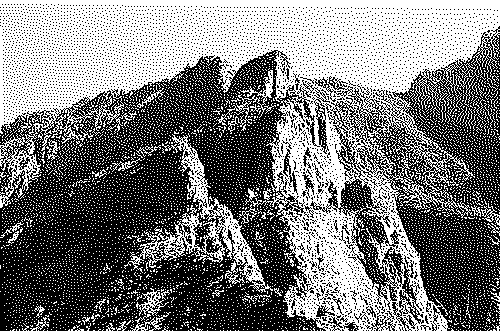
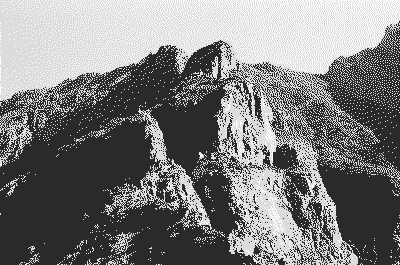
crispy low res imgs

diff --git a/site/index.html b/site/index.html
@@ -1,2 +1,2 @@
-<!doctype html><html lang='en' id='imghigh'><head><meta charset='utf-8'><meta name='description' content='An ongoing collection of notes for my projects and interests'/><meta name='viewport' content='width=device-width,initial-scale=1'><link rel='alternate' type='application/rss+xml' title='RSS Feed' href='../feed.xml' /><link rel='stylesheet' type='text/css' href='../links/main.css?c=20210521'><title>Ten Digits &mdash; index</title><link rel='shortcut icon' type='image/png' href='/favicon.ico'></head><body id='imglow'><nav><a href='home.html' title='Home'><svg xmlns='http://www.w3.org/2000/svg' viewBox='0 0 575 575'><path d='M68 183c0 49.7 40.3 90 90 90m-90-90c49.7 0 90 40.3 90 90m0-135c0 74.6 33.6 135 75 135m-75-135c41.4 0 75 60.4 75 135m30-165c-20 60-10 110 30 150m-30-150c30 30 40 80 30 150m105-135c-40 30-60 75-60 135m60-135c10 60-10 105-60 135m165-120c-50 20-85 65-105 135m105-135c-10 60-45 105-105 135m90 45c-60 20-100 50-120 90m120-90c-10 50-50 80-120 90m-15-90c-20 30-35 70-45 120m45-120c10 50-5 90-45 120m-30-150c-30 50-35 105-15 165m15-165c10 60 5 115-15 165m-75-150c30 50 40 95 30 135m-30-135c-20 50-10 95 30 135M98 318c0 60 20 100 60 120M98 318c40 20 60 60 60 120' fill='#333' stroke='#333' stroke-width='18' stroke-linecap='round' stroke-linejoin='round'/></svg></a><a href='notes.html' title='Note Index'>Notes</a><a href='projects.html' title='Project Index'>Projects</a><a href='about.html' title='About this webiste'>About</a><a href='../feed.xml' title='Syndication feed'>RSS</a></nav><div class='wrap'><header><p class='pretitle'>All files</p><h1>Index</h1><p class='posttitle'></p></header><main><ul><li><a href='house.html'>house</a></li><li><a href='birdhouse_cam.html'>birdhouse cam</a></li><li><a href='notes.html'>notes</a></li><li><a href='home.html'>home</a></li><li><a href='log_051921.html'>log 051921</a></li><li><a href='nate_steiner.html'>nate steiner</a></li><li><a href='golden_beets.html'>golden beets</a></li><li><a href='ae_modular.html'>ae modular</a></li><li><a href='git.html'>git</a></li><li><a href='website.html'>website</a></li><li><a href='projects.html'>projects</a></li><li><a href='log_031721.html'>log 031721</a></li><li><a href='now.html'>now</a></li><li><a href='bagels.html'>bagels</a></li><li><a href='bird_posters.html'>bird posters</a></li><li><a href='grain_free_granola.html'>grain free granola</a></li><li><a href='inktober.html'>inktober</a></li><li><a href='about.html'>about</a></li><li><a href='using.html'>using</a></li><li><a href='log.html'>log</a></li><li><a href='postreceivehook.html'>postreceivehook</a></li><li><a href='orca_box.html'>orca box</a></li><li><a href='ssl.html'>ssl</a></li><li><a href='inktober_2020.html'>inktober 2020</a></li><li><a href='imac_linux.html'>imac linux</a></li><li><a href='imageswap.html'>imageswap</a></li></ul></main></div><footer><p><em>Edited on Fri May 21 10:05:28 2021
+<!doctype html><html lang='en' id='imghigh'><head><meta charset='utf-8'><meta name='description' content='An ongoing collection of notes for my projects and interests'/><meta name='viewport' content='width=device-width,initial-scale=1'><link rel='alternate' type='application/rss+xml' title='RSS Feed' href='../feed.xml' /><link rel='stylesheet' type='text/css' href='../links/main.css?c=20210521'><title>Ten Digits &mdash; index</title><link rel='shortcut icon' type='image/png' href='/favicon.ico'></head><body id='imglow'><nav><a href='home.html' title='Home'><svg xmlns='http://www.w3.org/2000/svg' viewBox='0 0 575 575'><path d='M68 183c0 49.7 40.3 90 90 90m-90-90c49.7 0 90 40.3 90 90m0-135c0 74.6 33.6 135 75 135m-75-135c41.4 0 75 60.4 75 135m30-165c-20 60-10 110 30 150m-30-150c30 30 40 80 30 150m105-135c-40 30-60 75-60 135m60-135c10 60-10 105-60 135m165-120c-50 20-85 65-105 135m105-135c-10 60-45 105-105 135m90 45c-60 20-100 50-120 90m120-90c-10 50-50 80-120 90m-15-90c-20 30-35 70-45 120m45-120c10 50-5 90-45 120m-30-150c-30 50-35 105-15 165m15-165c10 60 5 115-15 165m-75-150c30 50 40 95 30 135m-30-135c-20 50-10 95 30 135M98 318c0 60 20 100 60 120M98 318c40 20 60 60 60 120' fill='#333' stroke='#333' stroke-width='18' stroke-linecap='round' stroke-linejoin='round'/></svg></a><a href='notes.html' title='Note Index'>Notes</a><a href='projects.html' title='Project Index'>Projects</a><a href='about.html' title='About this webiste'>About</a><a href='../feed.xml' title='Syndication feed'>RSS</a></nav><div class='wrap'><header><p class='pretitle'>All files</p><h1>Index</h1><p class='posttitle'></p></header><main><ul><li><a href='house.html'>house</a></li><li><a href='birdhouse_cam.html'>birdhouse cam</a></li><li><a href='notes.html'>notes</a></li><li><a href='home.html'>home</a></li><li><a href='log_051921.html'>log 051921</a></li><li><a href='nate_steiner.html'>nate steiner</a></li><li><a href='golden_beets.html'>golden beets</a></li><li><a href='ae_modular.html'>ae modular</a></li><li><a href='git.html'>git</a></li><li><a href='website.html'>website</a></li><li><a href='projects.html'>projects</a></li><li><a href='log_031721.html'>log 031721</a></li><li><a href='now.html'>now</a></li><li><a href='bagels.html'>bagels</a></li><li><a href='bird_posters.html'>bird posters</a></li><li><a href='grain_free_granola.html'>grain free granola</a></li><li><a href='inktober.html'>inktober</a></li><li><a href='about.html'>about</a></li><li><a href='using.html'>using</a></li><li><a href='log.html'>log</a></li><li><a href='postreceivehook.html'>postreceivehook</a></li><li><a href='orca_box.html'>orca box</a></li><li><a href='ssl.html'>ssl</a></li><li><a href='inktober_2020.html'>inktober 2020</a></li><li><a href='imac_linux.html'>imac linux</a></li><li><a href='imageswap.html'>imageswap</a></li></ul></main></div><footer><p><em>Edited on Fri May 21 13:25:35 2021
  <a href='https://github.com/tendigits/10d/edit/master/src/inc/index.htm'>[edit]</a><br/></em>Ten Digits © 2021 — <a href='https://creativecommons.org/licenses/by-nc/4.0/legalcode.txt'>CC BY-NC 4.0</a><br><a href='https://webring.xxiivv.com/#random'><svg fill='none' stroke-linecap='square' xmlns='http://www.w3.org/2000/svg' viewBox='0 0 300 300' stroke='#000' stroke-width='20' height='14' width='14'><path d='M201.962 210a60 60 0 10-103.924-60l-50 86.603'></path><path d='M98.038 210a60 60 0 10103.924-60l-50-86.603'></path><path d='M150 120a60 60 0 100 120h100'></path></svg> Find more handcrafted sites in the webring</a></p></footer></body></html>

diff --git a/site/home.html b/site/home.html
@@ -17,8 +17,8 @@
   <img
     class="low"
     src="../assets/img/landscape-low.png"
-    width="500"
-    height="331"
+    width="800"
+    height="530"
     alt="Landscape view"
     loading="lazy">
 <figcaption>A figurative mountain of things I'd like to do</figcaption>
@@ -32,5 +32,5 @@
 </section>
 </main>
 
-</div><footer><p><em>Edited on Fri May 21 09:47:50 2021
+</div><footer><p><em>Edited on Fri May 21 13:25:29 2021
  <a href='https://github.com/tendigits/10d/edit/master/src/inc/home.htm'>[edit]</a><br/></em>Ten Digits © 2021 — <a href='https://creativecommons.org/licenses/by-nc/4.0/legalcode.txt'>CC BY-NC 4.0</a><br><a href='https://webring.xxiivv.com/#random'><svg fill='none' stroke-linecap='square' xmlns='http://www.w3.org/2000/svg' viewBox='0 0 300 300' stroke='#000' stroke-width='20' height='14' width='14'><path d='M201.962 210a60 60 0 10-103.924-60l-50 86.603'></path><path d='M98.038 210a60 60 0 10103.924-60l-50-86.603'></path><path d='M150 120a60 60 0 100 120h100'></path></svg> Find more handcrafted sites in the webring</a></p></footer></body></html>

diff --git a/src/inc/home.htm b/src/inc/home.htm
@@ -17,8 +17,8 @@
   <img
     class="low"
     src="../assets/img/landscape-low.png"
-    width="500"
-    height="331"
+    width="800"
+    height="530"
     alt="Landscape view"
     loading="lazy">
 <figcaption>A figurative mountain of things I'd like to do</figcaption>

diff --git a/links/main.css b/links/main.css
@@ -513,6 +513,10 @@ main ul.projectlist li::before {
   display:none;
 }
 
+img.low {
+  image-rendering: crisp-edges;
+}
+
 figure a {
   position: absolute;
   top: 40px;
